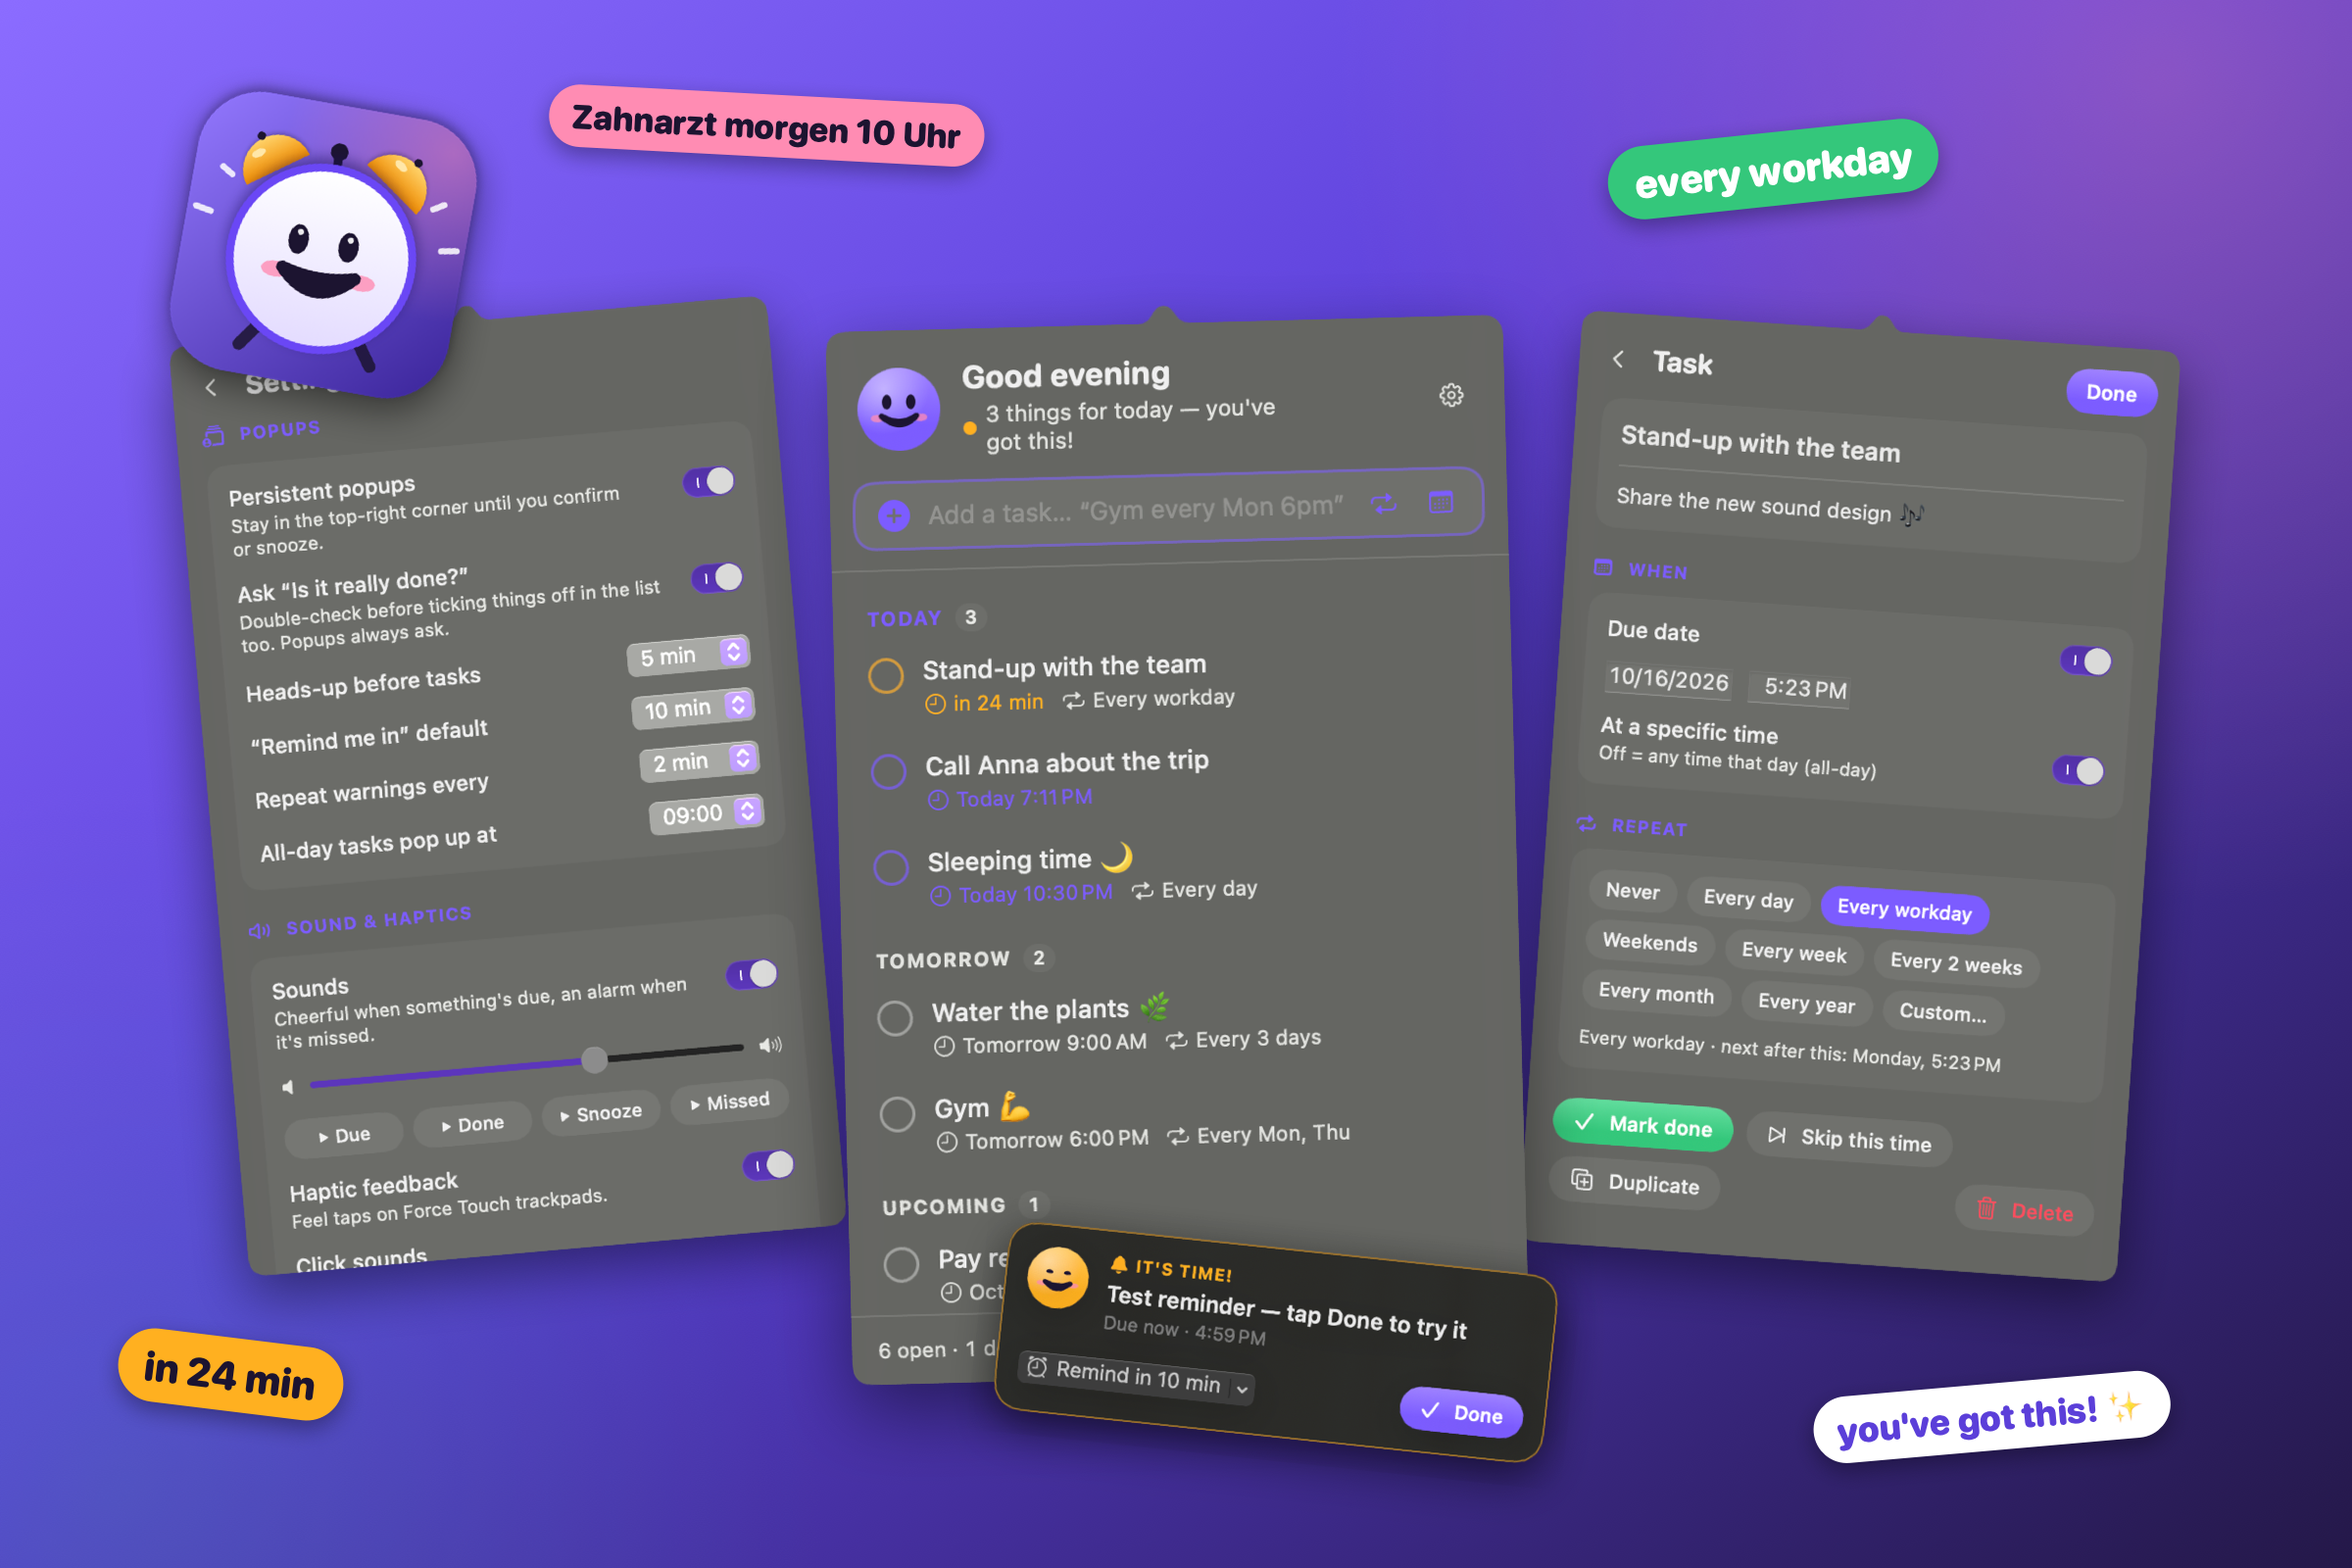
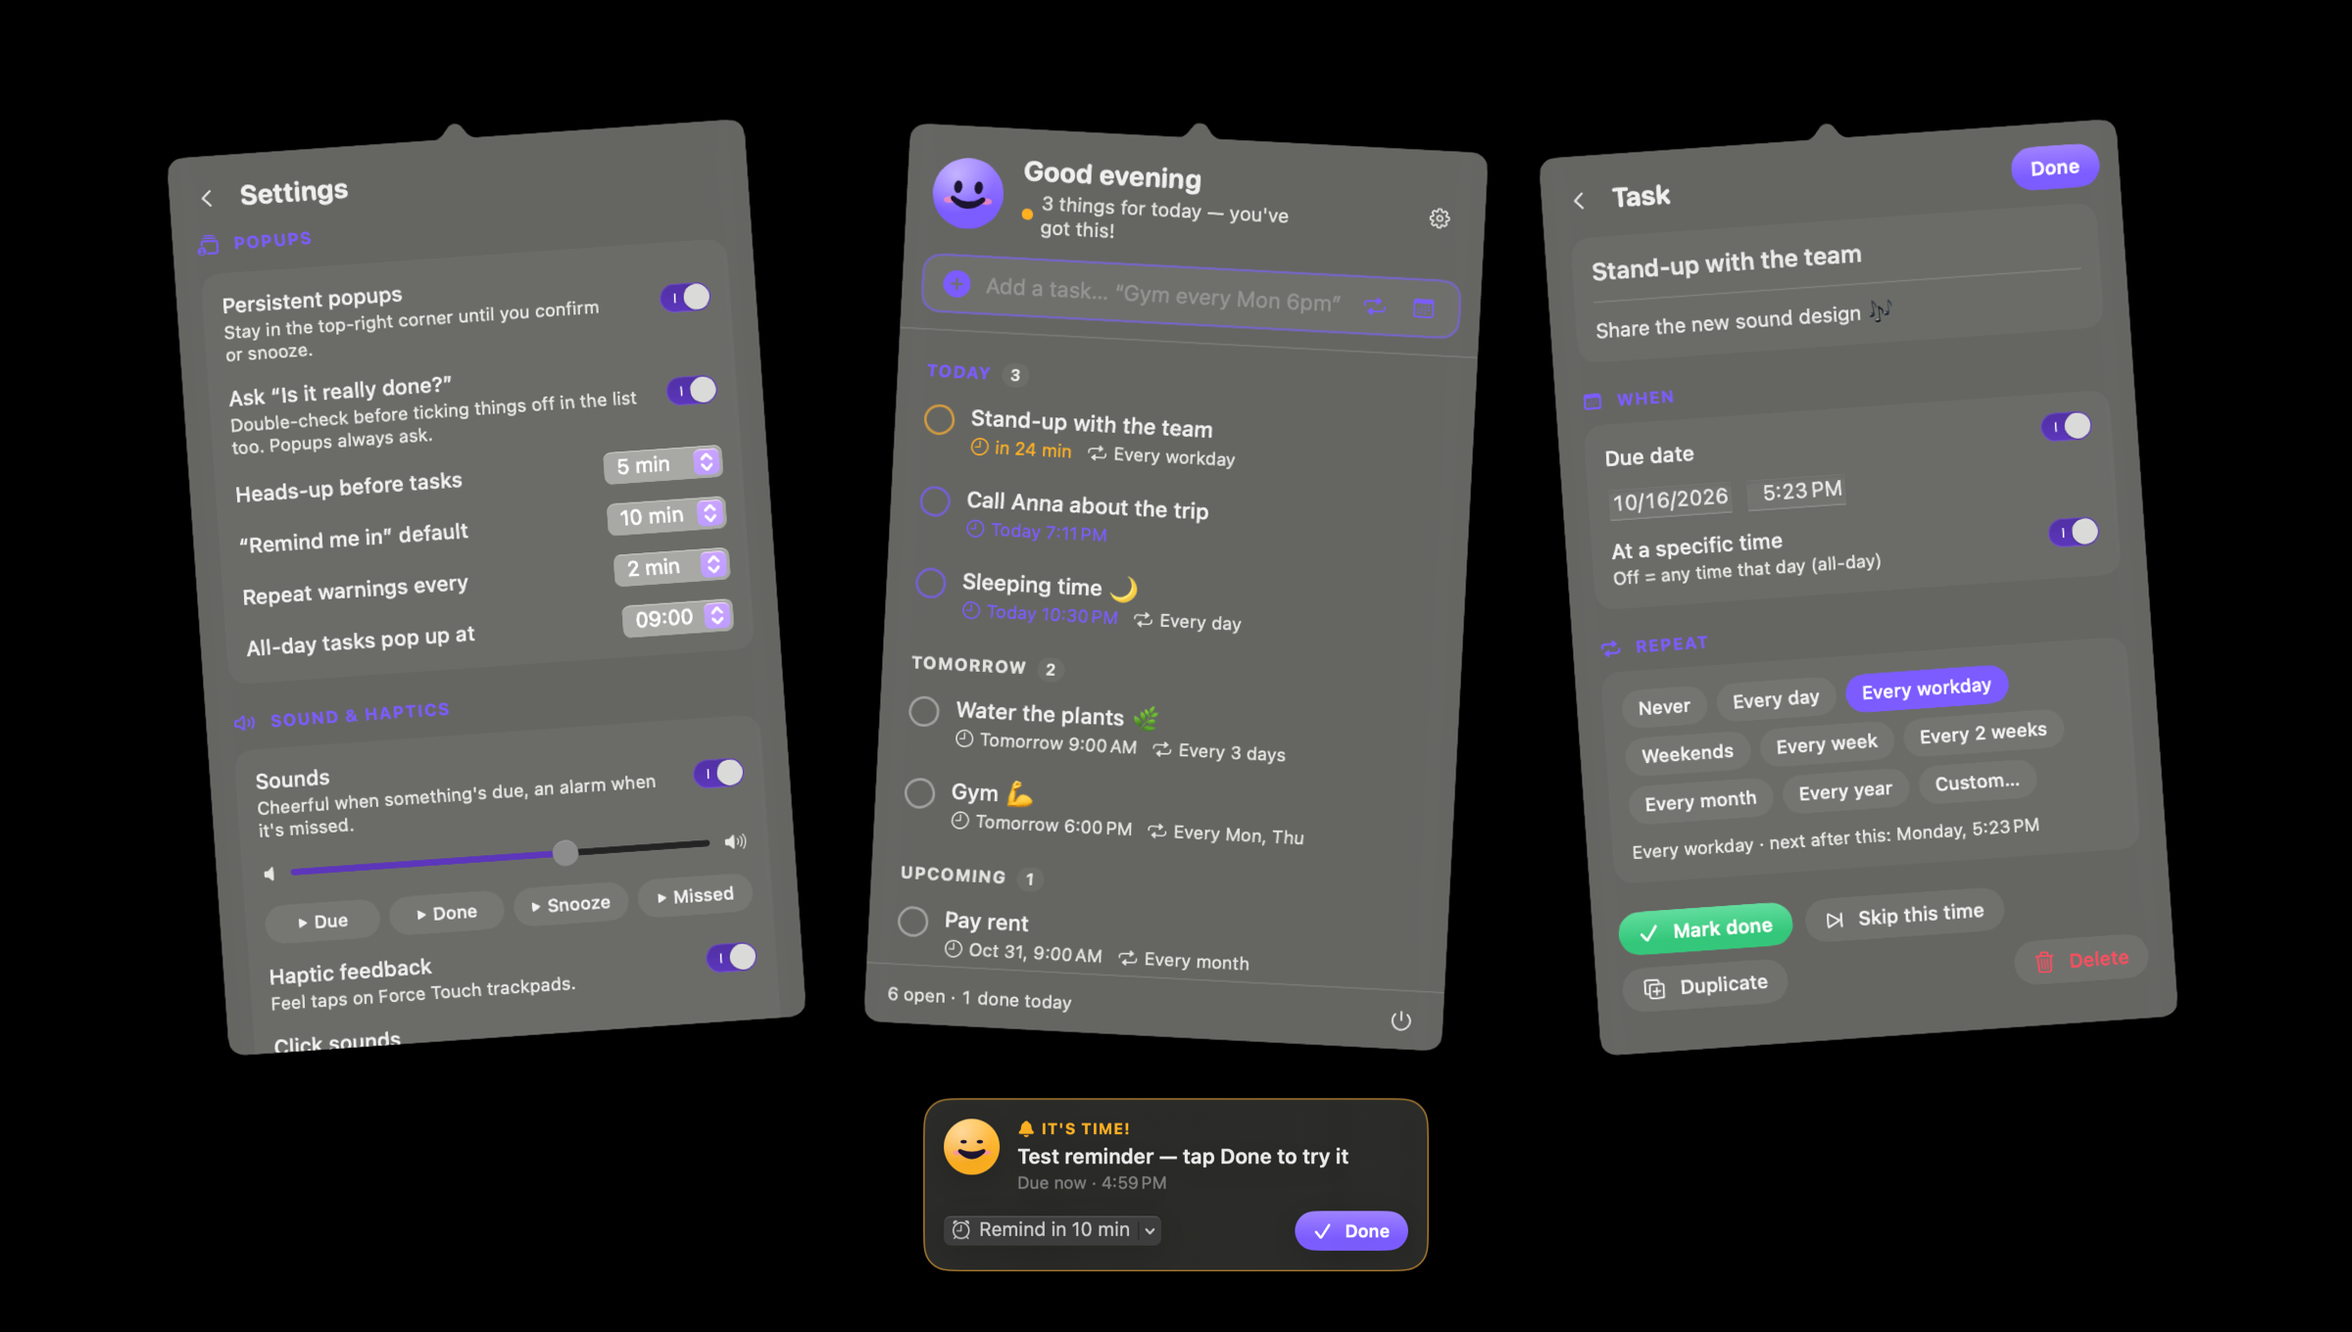
Simplify README visuals: black backgrounds, no badges or extra captions

diff --git a/BRAND.md b/BRAND.md
@@ -42,19 +42,19 @@ Keep the face simple enough to read at 16 px.
 | Violet light | `#9378FF` | Gradient start, highlights |
 | Violet deep | `#3A2499` | Gradient end, icon tile shadow side |
 | Ink | `#1C1430` | Eyes, mouth, dark text on light surfaces |
-| Blush | `#FF8CB3` | Cheeks, playful glows, stickers |
+| Blush | `#FF8CB3` | Cheeks |
 | Good | `#34C77B` | All clear, "Mark done" |
 | Warm | `#FFB020` | Due soon, "It's time!", alarm bells |
 | Missed | `#FF4D5E` | Missed / overdue, destructive actions |
 
 Status colors are **only** for status. Don't use green, amber, or red for decoration.
 
-**Brand background:** a diagonal gradient `#8B6CFF → #5B3FD9 → #241848` with a soft blush
-glow in the top-right corner and a faint green glow in the bottom-left.
+**Brand imagery:** plain black background, real screenshots, the icon and the wordmark. No
+gradients, badges, stickers or extra captions; let the app do the talking.
 
 ## Type
 
-- **SF Pro Rounded** for headlines, the wordmark, and stickers (Heavy / Bold).
+- **SF Pro Rounded** for headlines and the wordmark (Heavy / Bold).
 - **SF Pro** (system) in the UI.
 - The wordmark is `TaskAlarm`: one word, capital T and A, Heavy, tight tracking.
 
@@ -97,5 +97,4 @@ never shrill.**
 | --- | --- |
 | [`docs/icon.png`](docs/icon.png) | App icon, 1024 px (generated by `scripts/make_icon.swift`) |
 | [`docs/hero.png`](docs/hero.png) | README / social banner |
-| [`docs/collage.png`](docs/collage.png) | Sticker-style collage |
-| [`docs/screens.png`](docs/screens.png) | Screen gallery |
+| [`docs/collage.png`](docs/collage.png) | Screens collage |

diff --git a/README.md b/README.md
@@ -1,15 +1,8 @@
-<p align="center"><img src="docs/hero.png" alt="TaskAlarm — the to-do list that cheers you on"></p>
+<p align="center"><img src="docs/hero.png" alt="TaskAlarm"></p>
 
 <h1 align="center">TaskAlarm</h1>
 
-<p align="center"><b>The to-do list that cheers you on.</b><br>
-A tiny macOS menu bar app with a smiley that keeps you going: natural-language reminders, warm sounds, zero nagging.</p>
-
-<p align="center">
-  <img src="https://img.shields.io/badge/macOS-14%2B-7C5CFF?style=flat-square" alt="macOS 14+">
-  <img src="https://img.shields.io/badge/Swift-SwiftUI-FFB020?style=flat-square" alt="SwiftUI">
-  <img src="https://img.shields.io/badge/Apple%20Silicon%20%2B%20Intel-universal-34C77B?style=flat-square" alt="Universal">
-</p>
+<p align="center">The to-do list that cheers you on.</p>
 
 ## Install
 
@@ -47,8 +40,6 @@ menu bar. Prefer building it yourself? Add `-s -- --source` to the end of that c
    or **Remind in…** 5–30 minutes.
 3. **Missed**: after a 5-minute grace period it turns red, plays a soft *ding-dong* alarm, shakes,
    and repeats every few minutes until handled.
-
-<p align="center"><img src="docs/screens.png" alt="Settings, reminder card and task page"></p>
 
 ## The smiley
 
